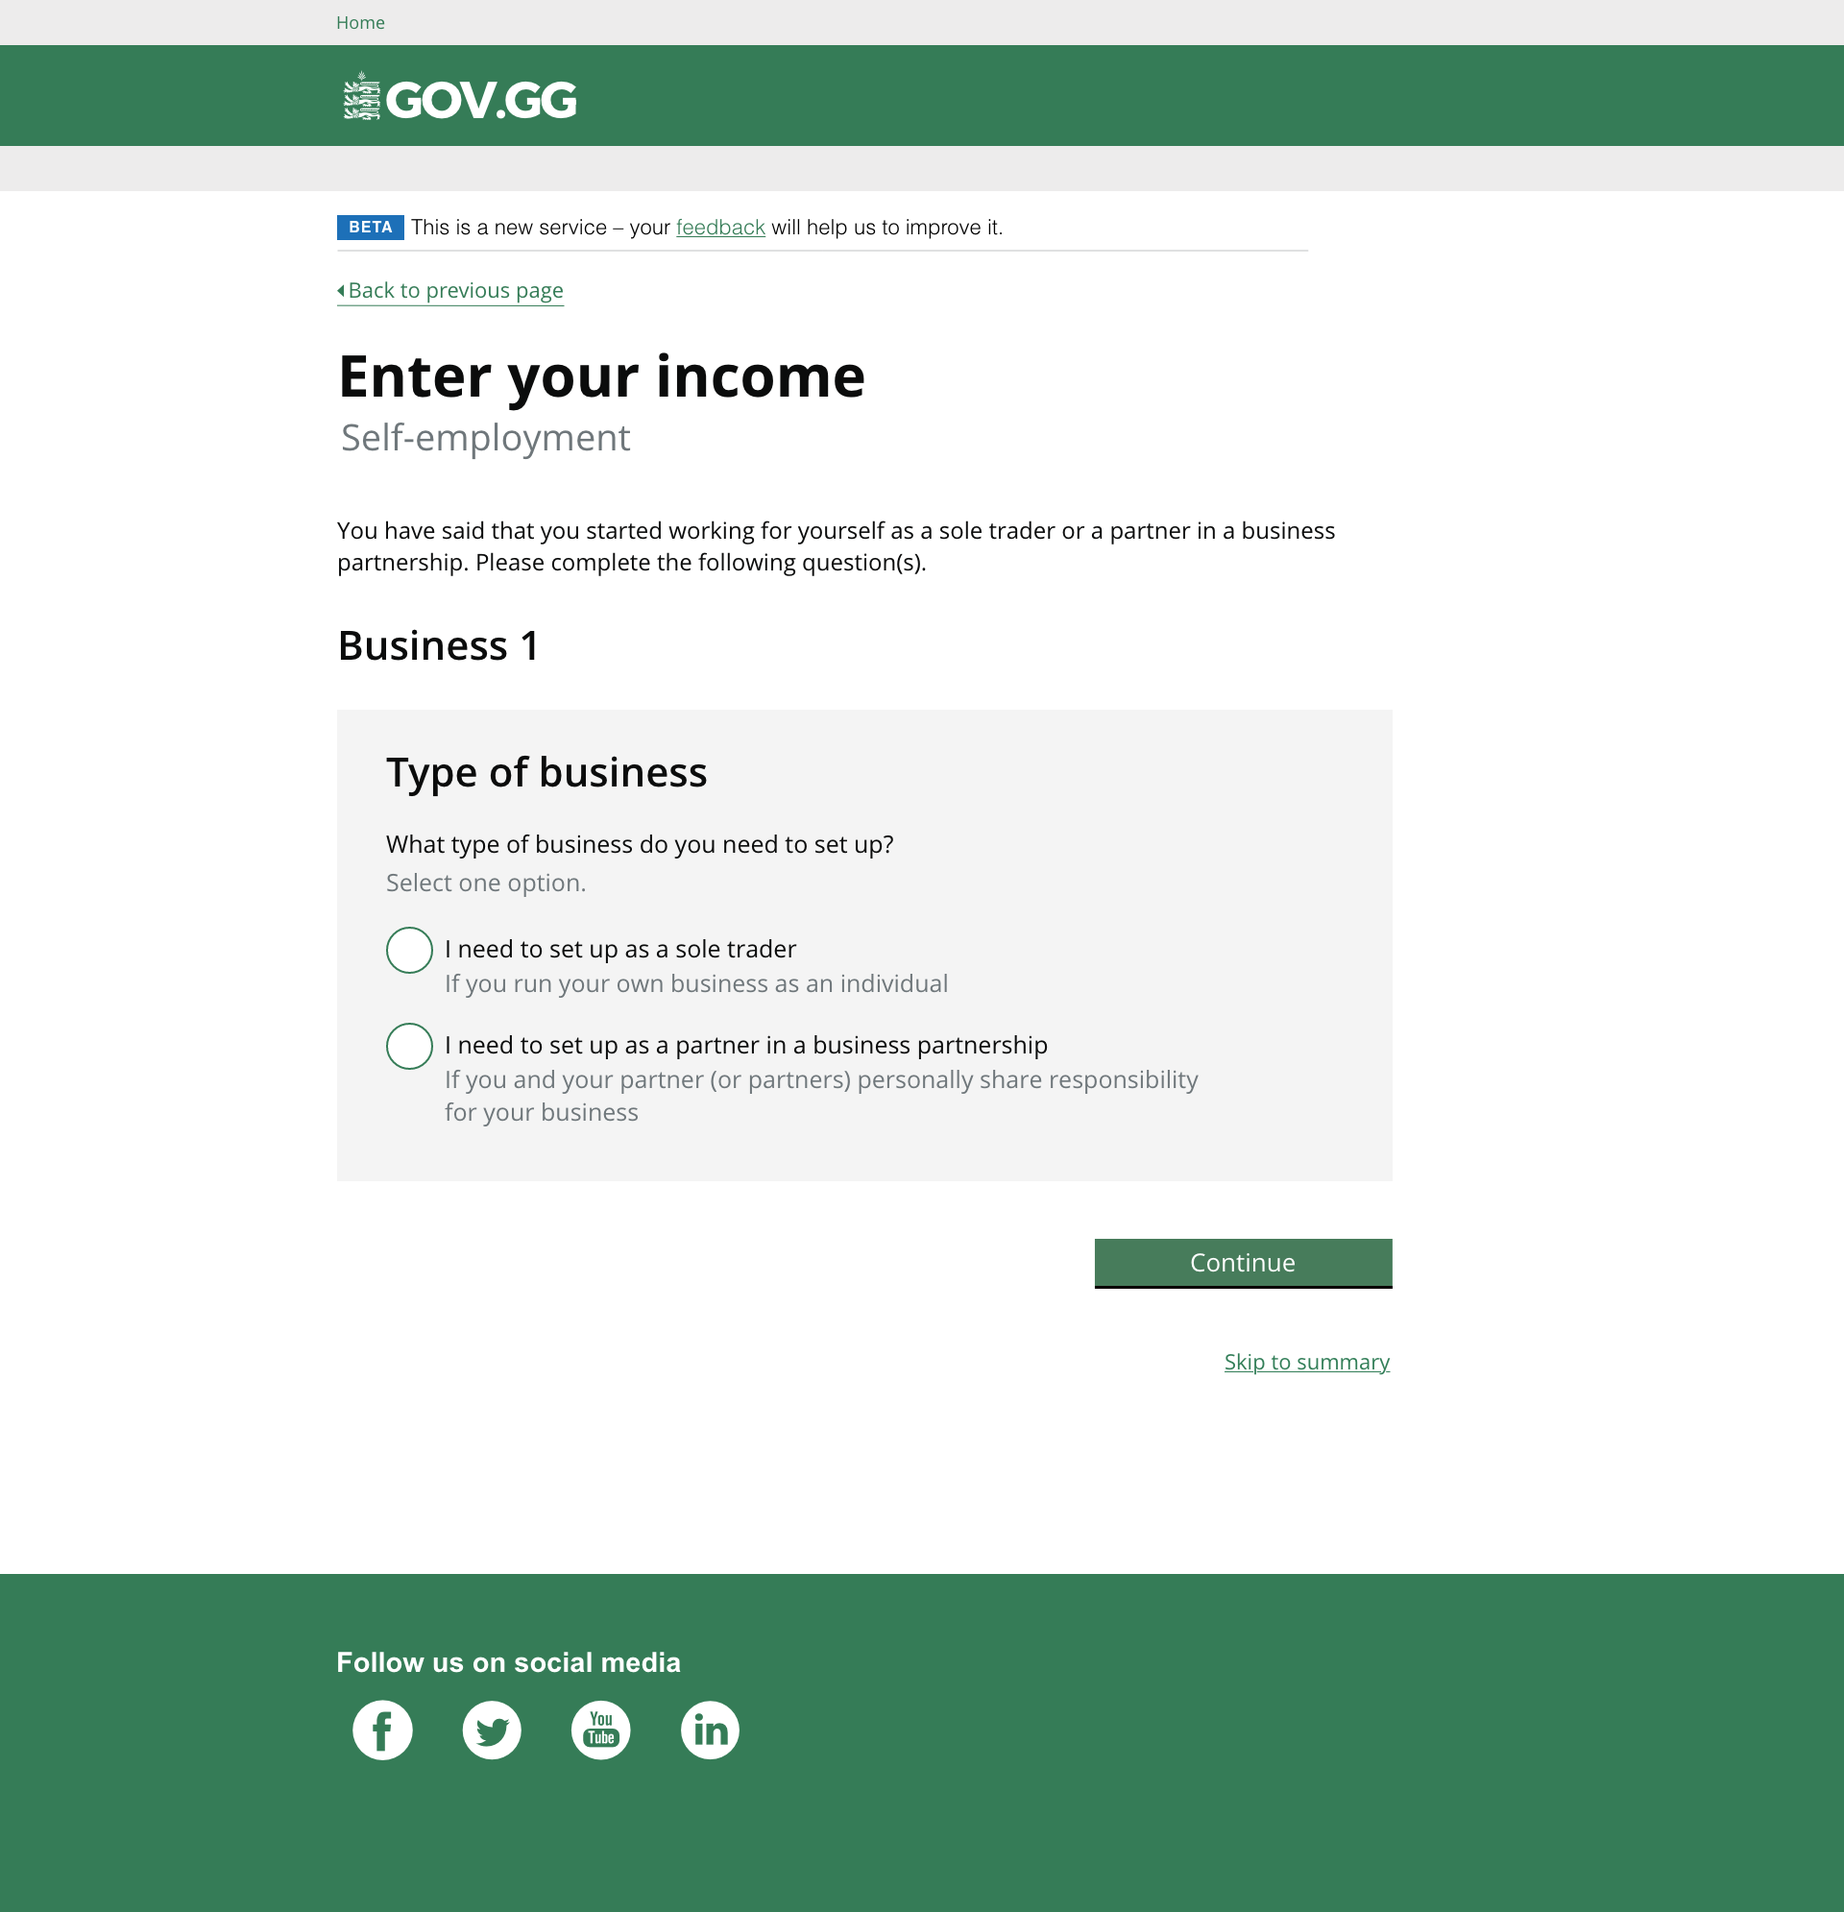
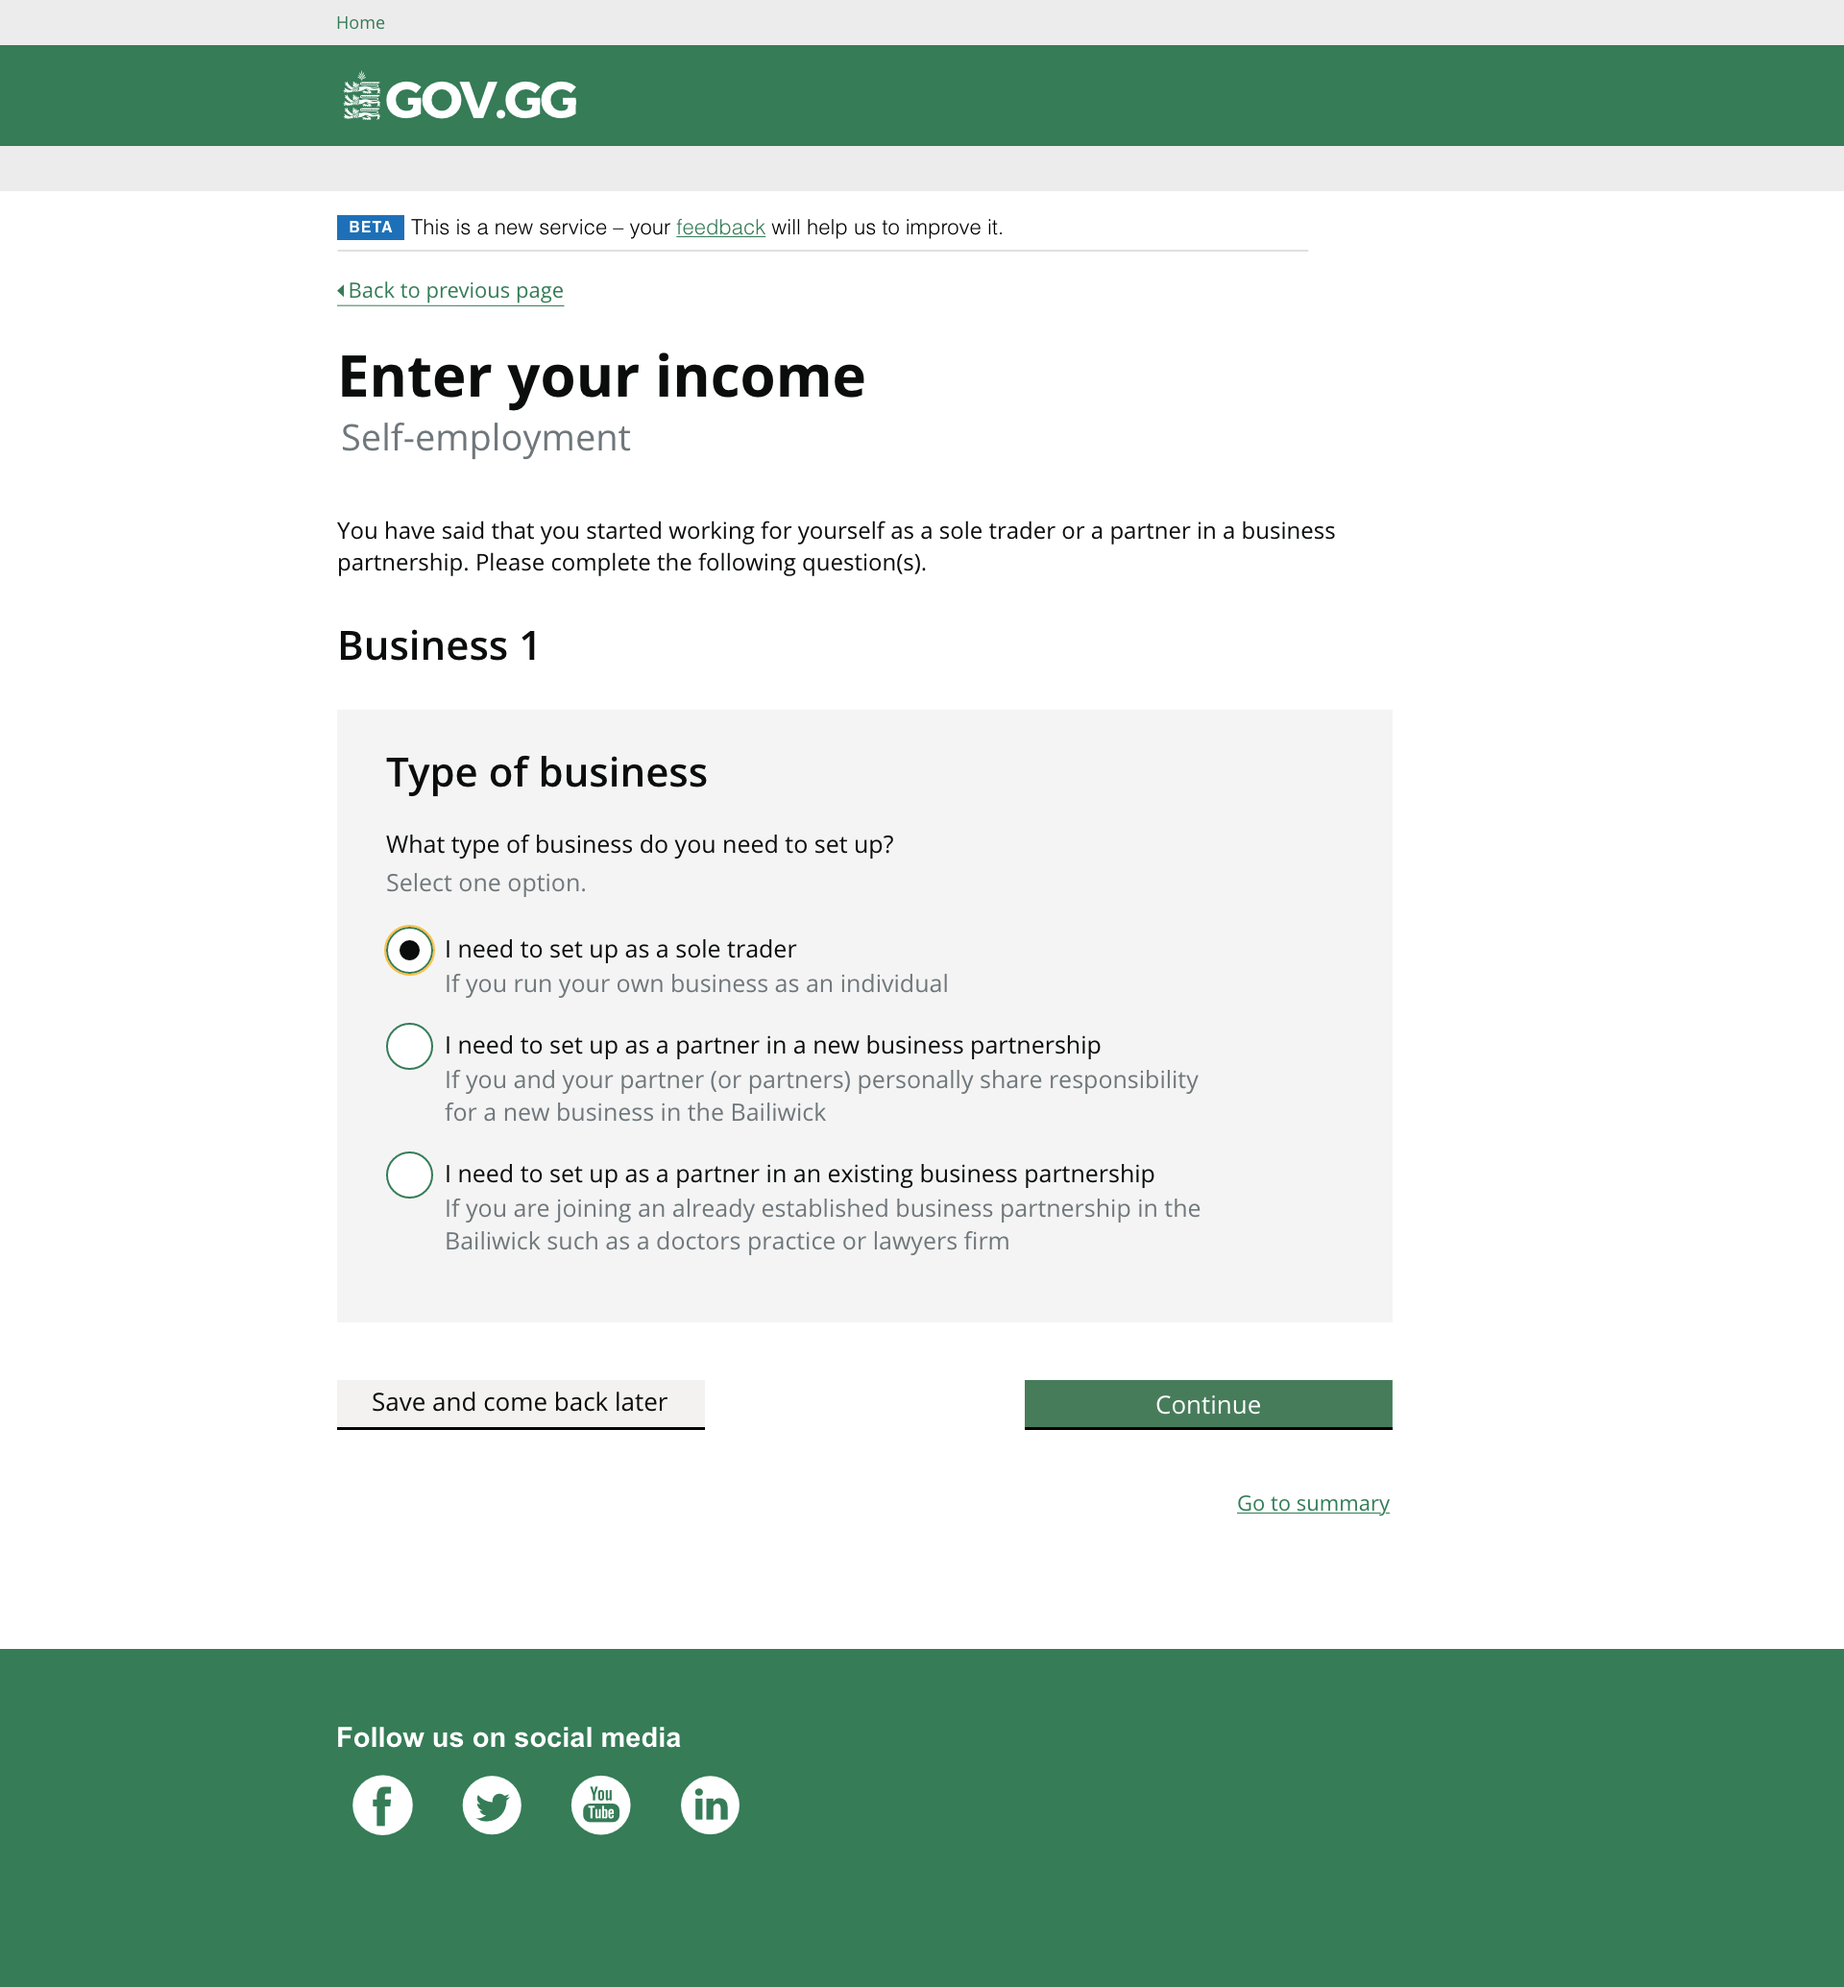
update self-employment

diff --git a/exemplar/1/data.js b/exemplar/1/data.js
@@ -539,7 +539,7 @@ var data = {
 }]
 },
 {
-"title": "Enter your income - self-employed, business partnership",
+"title": "Enter your income - self-employed, new business partnership",
 "path": [{
 "caption": "Task list",
 "imgref": "images/6.register-arrival-task-list-1.png"
@@ -548,7 +548,7 @@ var data = {
 "imgref": "images/3.select-income-self-employed.png",
 },{
 "caption": "Business type",
-"imgref": "images/4.business-type.png"
+"imgref": "images/new-business-partnership.png"
 },{
 "caption": "Business details",
 "imgref": "images/5.business-details.png"
@@ -582,6 +582,49 @@ var data = {
 }]
 },
 {
+  "title": "Enter your income - self-employed, existing business partnership",
+  "path": [{
+  "caption": "Task list",
+  "imgref": "images/6.register-arrival-task-list-1.png"
+  },{
+  "caption": "Your income",
+  "imgref": "images/3.select-income-self-employed.png",
+  },{
+  "caption": "Business type",
+  "imgref": "images/new-business-partnership.png"
+  },{
+  "caption": "Business details",
+  "imgref": "images/5.business-details.png"
+  },{
+  "caption": "Start date",
+  "imgref": "images/6.date-business-started.png"
+  },{
+  "caption": "Business address",
+  "imgref": "images/7.Business-address.png"
+  },{
+  "caption": "Address",
+  "imgref": "images/8.Enter-business-address.png"
+  },{
+  "caption": "Business partner",
+  "imgref": "images/self-employed-partners.png"
+  },{
+  "caption": "Accounts",
+  "imgref": "images/9.accounting-period.png"
+  },{
+  "caption": "Profit or loss",
+  "imgref": "images/10.profit-or-loss-estimate.png"
+  },{
+  "caption": "Summary",
+  "imgref": "images/11.Self-employment-summary.png"
+  },{
+  "caption": "Income estimates",
+  "imgref": "images/income-estimates-self-employed.png"
+  },{
+  "caption": "Task list",
+  "imgref": "images/task-list-self-employed-2.png"
+  }]
+  },
+  {
 "title": "Enter your income - pensions",
 "path": [{
 "caption": "Task list",
